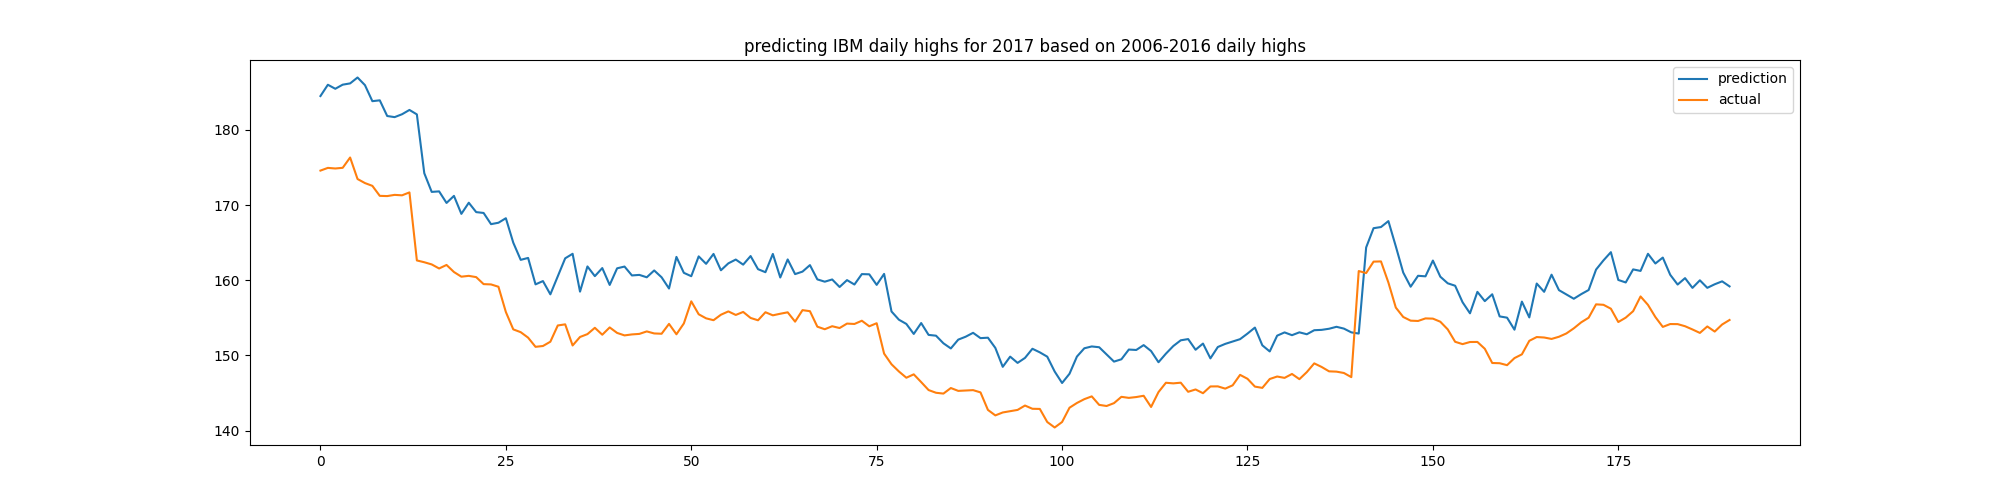
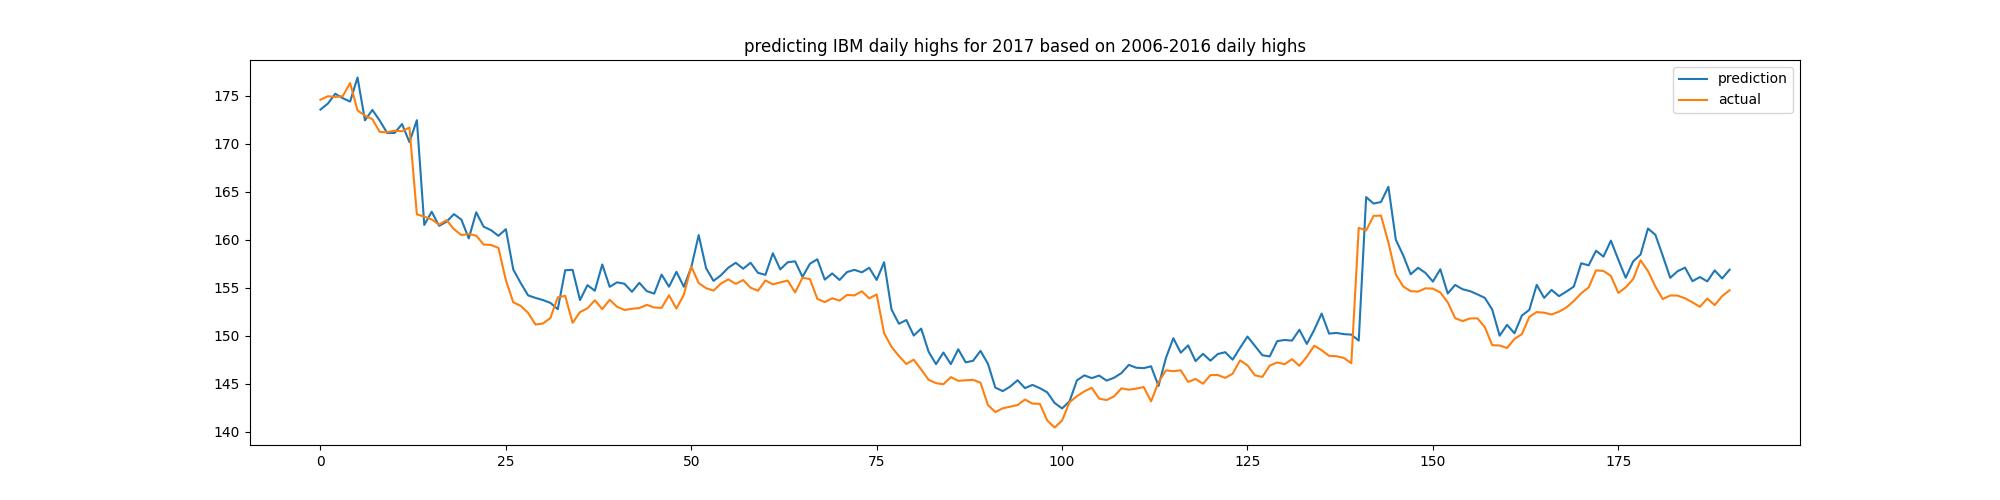
couple small things

diff --git a/rnns/simple_gru.py b/rnns/simple_gru.py
@@ -4,7 +4,7 @@ import pandas as pd
 import matplotlib.pyplot as plt
 from sklearn.preprocessing import MinMaxScaler
 from keras.models import Sequential
-from keras.layers import Dense, SimpleRNN
+from keras.layers import Dense, GRU 
 import tensorflow as tf
 import config as cf
 
@@ -45,9 +45,6 @@ x_test = np.reshape(x_test, (*x_test.shape,1))
 def gen_model(x_train,y_train,x_test,sc):
     model = Sequential()
     model.add(tf.keras.layers.GRU(32, return_sequences=True))
-    model.add(SimpleRNN(32, return_sequences=True))
-    model.add(SimpleRNN(32, return_sequences=True))
-    model.add(SimpleRNN(32))
     model.add(Dense(1))
 
     model.compile(optimizer='rmsprop', loss='mean_squared_error')
